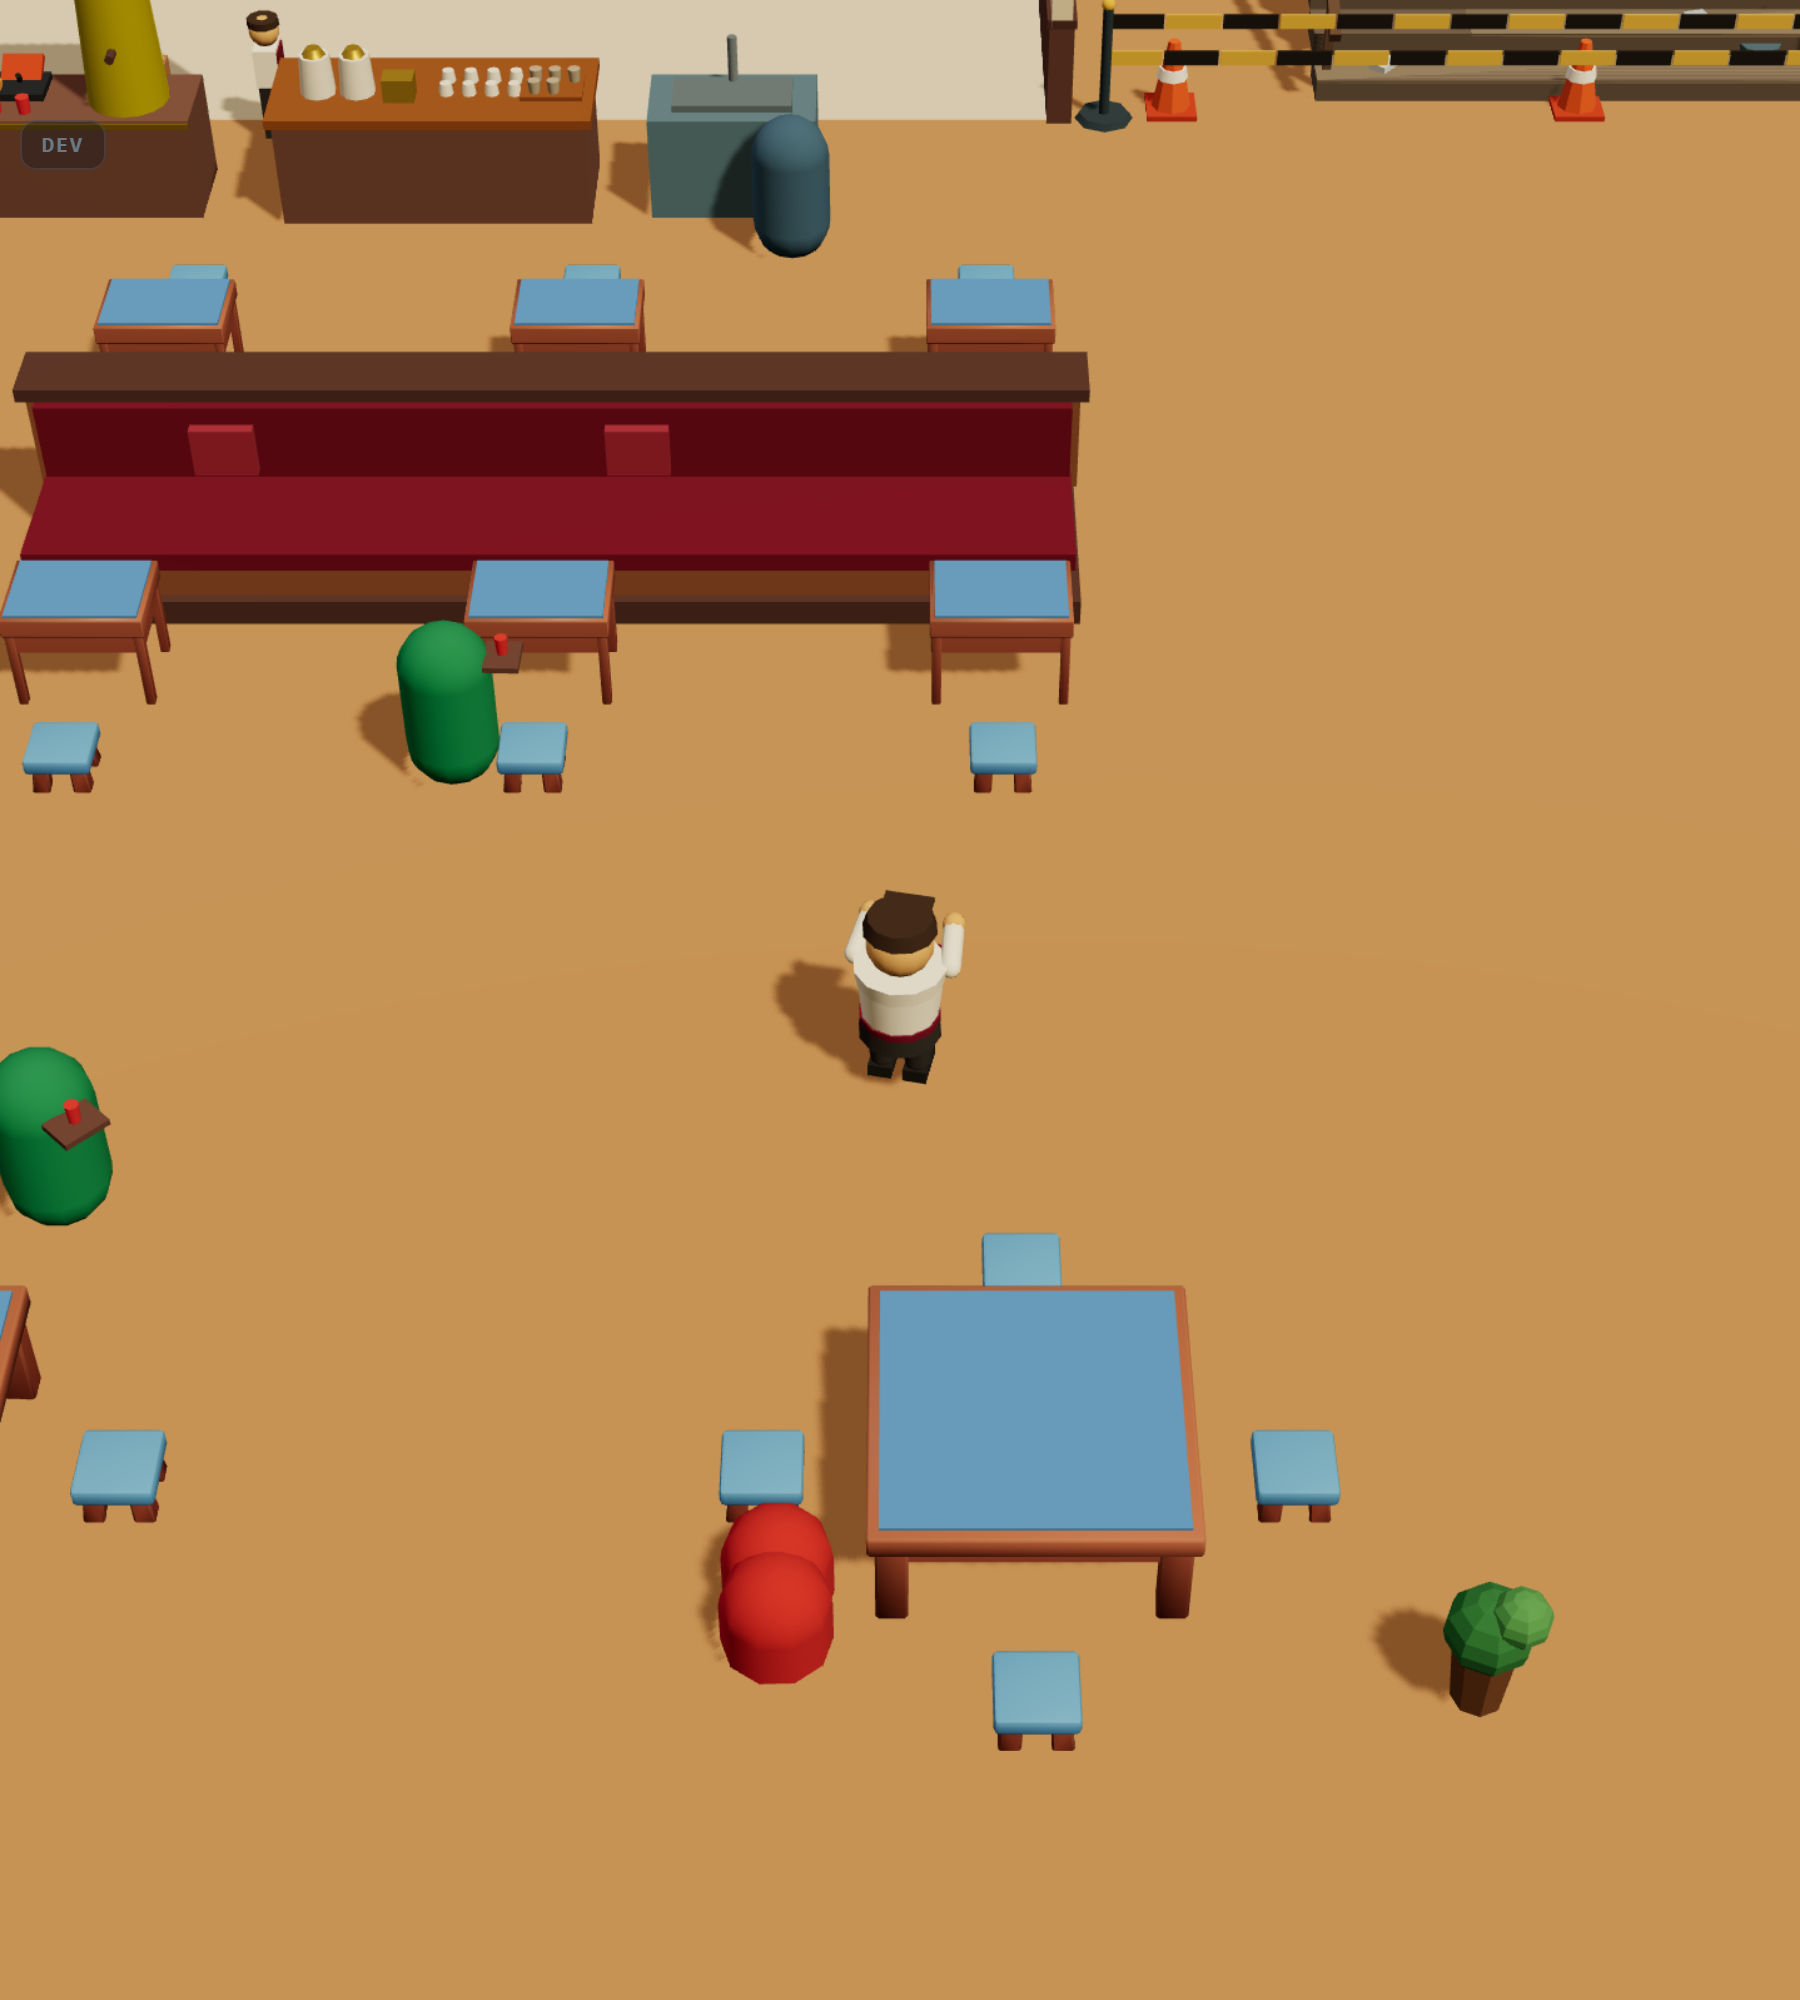
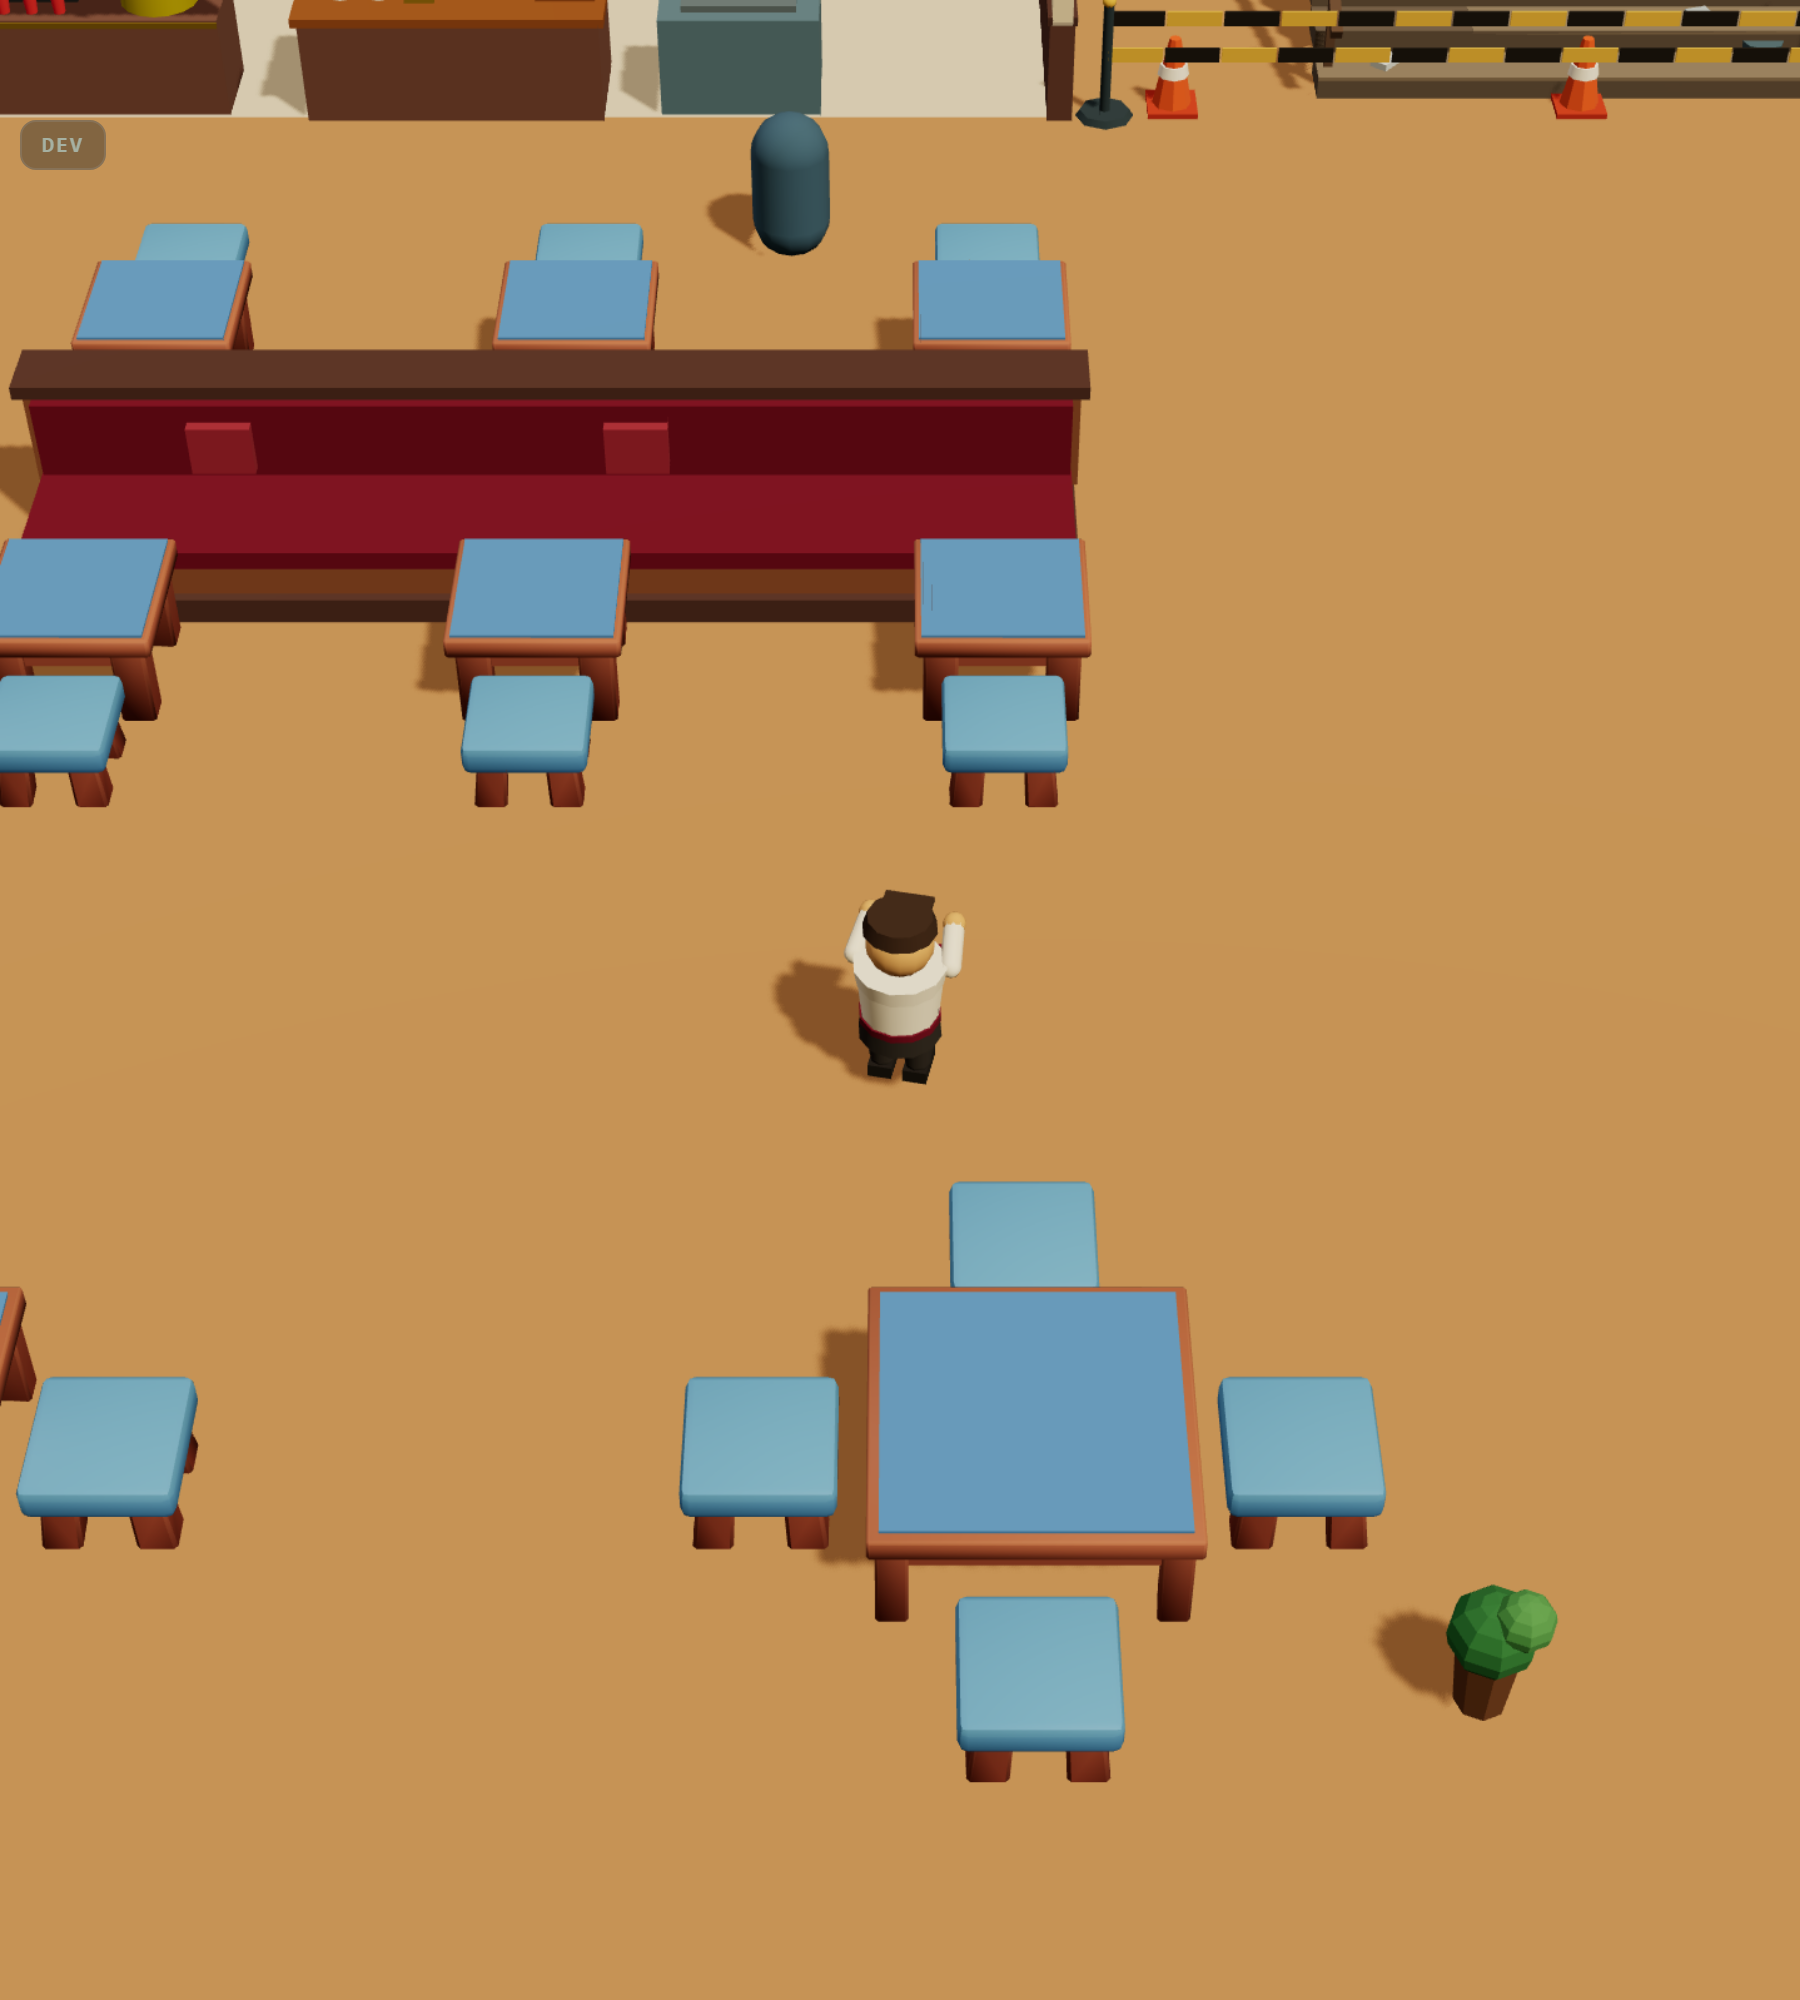
Oturum kaydi: pano 51->53 (Faz B 9->11), rapor D-074 bolumuyle guncellendi
- Pano JSON: bu oturum ozeti (duvar main'e, bant odalara, kamera olcumu, geri bildirim)
  + siradaki blok iki karara baglandi (bandin acilmasi, fov) -> sonra OLCU DONAR
- docs/bm-adim3-4-bant-kamera.html: 'Kareler geldikten sonra duzelen uc sey' bolumu +
  fov kareleri yeni mobilyayla yeniden cekildi
- Artifact: https://claude.ai/code/artifact/e49330bc-c918-41ec-a1b4-5c879cae146c

diff --git a/docs/pano/ilerleme-panosu.html b/docs/pano/ilerleme-panosu.html
@@ -187,8 +187,8 @@ h2{font-size:21px;font-weight:800}
      yayın programıyla başladı.
      ══════════════════════════════════════════════════════════════════════ -->
 <script type="application/json" id="durum">{
-  "guncelleme": "07.09.2026",
-  "yapilan": 51,
+  "guncelleme": "08.09.2026",
+  "yapilan": 53,
   "toplam": 72,
   "kilometre": [
     {
@@ -209,30 +209,30 @@ h2{font-size:21px;font-weight:800}
     }
   ],
   "ozet": {
-    "etiket": "Bu oturum · Faz B · 9/12 — ölçü kararı, gölge ve maketin masası",
-    "baslik": "Tasarımla sistem birbirini geçersiz kılıyordu; sebep sıra değil, bağımlılığın yönüymüş",
-    "aciklama": "Oturum bir düzen sorusuyla açıldı: <b>“önce tasarım mı kusursuzlaşsın, yoksa sistem mi”</b>. Sıra iki gecede iki kez dönmüştü, çünkü soru yanlış soruluyordu. Ölçüm sebebi verdi: <b>bağımlılık tek yönlü</b> — geometri değişince bütün denge ölçümleri (yürüme süresi = çay/dk) çöpe gidiyor, tersi olmuyor. Yani öncelik “hangisi daha önemli” değil, <b>hangisi diğerini geçersiz kılıyor</b>.<br><br>Bunun üstüne üç katman kuruldu: <b>1) ölçü/ankraj → 2) sistem → 3) sanat cilası</b>. Ankrajlar (masa merkezleri, servis yüzü, pad noktaları, yol bulma katıları) bir kez donar; sanat cilası onlara <b>dokunamaz</b>, böylece kaç tur dönerse dönsün denge bozulmaz. İkinci kök sebep de kayda geçti: maket ile oyun <b>iki ayrı program</b> (r128 + renk yönetimsiz ↔ three 0.184 + ACES), o yüzden “yan yana koy, aynı mı” kabul kriteri hiçbir zaman kapanamıyordu. Kriter artık <b>sayı listesi</b>.",
+    "etiket": "Bu oturum · Faz B · 11/12 — duvar main'e alındı, arka bant odalara döndü",
+    "baslik": "Bant üç düz krem kutuydu; maketin kendi kurgusunda orası zaten üç odaydı",
+    "aciklama": "Duvar dalı main'e alındı ve <b>korkulan çakışma çıkmadı</b> — dalın dokunduğu satırlarla gecenin ışık/masa değişiklikleri hiç kesişmemiş. Ama duvar 1,20'den <b>3,20</b>'ye çıkınca iki kusur açığa çıktı: kapı boşluğu duvarla birlikte uzayıp lentoyu tavana yapıştırdı, ve arka bandın üç krem kutusu kadrajın beşte birini kaplayan bomboş bir yüzeye dönüştü.<br><br>İkisinin de cevabı maketin kendi dosyasındaydı. Kapıya <b>alınlık</b> geldi (kapı 2,65'te biter, üstündeki 0,55'lik badana şeridi cepheyi tamamlar). Bant ise kütle olmaktan çıkıp <b>maketin odalarına</b> döndü: solda mutfak, ortada yıkık merdiven kovası, sağda lavabo. Bandı kapatan şey artık kutunun kendisi değil <b>binanın arka duvarı</b>.",
     "adimlar": [
-      "<b>Ölçü hedefi seçildi:</b> kat 34 × 34, duvar 3,20 — maket v13 aynen. 32 × 32 + KayKit duvarı (4,00) ölçüldü ve reddedildi: onaylı maketi yeniden açardı, kayan kapıyla çatışırdı",
-      "<b>Dev'e üstten plan geldi:</b> katın tamamını tepeden gösteren kamera + zemine 3,20 / 4,00 adımlı <b>ölçü ızgarası</b> — maket ve oyun artık aynı kadrajdan karşılaştırılıyor",
-      "<b>Gölgeler geri açıldı</b> (eski “gölge yok” kararı kullanıcı tarafından geri alındı); takım maketin kendi değerleri — yumuşak gölge, 2048 harita, güneş 14/26/16",
-      "<b>Zemin parkeden çıktı:</b> maketin düz ahşabı (#b98a5a); tahta çizgileri kalktı, ölçek referansını artık gölge veriyor",
-      "<b>Masa dili maketin ölçüsüne çıktı:</b> ön çeyreğin çay masası 0,90 → <b>1,75</b>, küme aralığı 3,20 → <b>6,40</b>, koltuklar ∓0,78 → <b>∓1,45</b>; şeridin ikili masası (1,00) olduğu gibi kaldı — maketteki <b>iki mobilya dili</b> arasındaki fark geri geldi"
+      "<b>Duvar main'de:</b> 3,20 · lambri 0,90 · üç katman · koyu çıta; dekorun asma bandı maketin yüksekliklerinde (tablo 1,95 · aplik 2,05 · saat 2,20)",
+      "<b>Ana giriş maketin bloğu oldu:</b> kapı 2,65 · söveler ∓2,20 · <b>alınlık</b> 2,65–3,20 · üst kordon 3,15",
+      "<b>Arka bant odalara döndü:</b> mutfak (fayans zemin, cezve ocağı, tezgâh, raflar, bulaşık, depo) · merdiven kovası (yıkık merdiven, uyarı şeridi, dubalar) · lavabo (açıkken oda, kilitliyken tahta perde + iskele + moloz)",
+      "<b>Kamera ölçüldü:</b> fov 50 ↔ 34 aynı kadrajdan çekildi; maketin dar açısı sahneyi %16 düzleştiriyor ama sisin yeniden ayarlanmasını gerektiriyor — <b>karar kullanıcıda</b>",
+      "<b>Geri bildirim aynı gece kapandı:</b> banket masası kare oldu (1,00 → 1,20), tabure oranı maketin ölçüsüne kilitlendi (oturak 0,30 → 0,555), mutfak eşyaları mutfağın içine girdi"
     ],
-    "not": "Ölçü değişimi beş testi düşürdü ve beşi de <b>ölçüye bağlanarak</b> düzeltildi (teslim mesafesi artık masanın ayak izinden türüyor, sabit sayı değil). <b>280/280 yeşil.</b> Karşılaştırma raporu: <code>docs/olcu-plan-karar.html</code>"
+    "not": "Bandın açılması <b>oynanışa dokunmadı</b>: alanlar hâlâ z = −9,8'de bitiyor ve duvarlar zaten katı engel değil — nav, denge, kayıt ve testlerin hiçbiri etkilenmedi. <b>281/281 yeşil.</b> Rapor: <code>docs/bm-adim3-4-bant-kamera.html</code>"
   },
   "siradaki": {
-    "etiket": "Faz B · BM adım 1 — duvar (3,20) main'e alınıyor",
-    "baslik": "Duvar hâlâ 1,20: salon bir oda değil, bir kesit",
-    "aciklama": "Bugünkü duvar <b>bir insanın omzunun altında</b> bitiyor (1,20; insan 1,60). Maketin duvarı <b>3,20</b> ve asılan her şeyin yeri ona göre: tablo 1,95 · aplik 2,05 · saat 2,20. Duvar yükselmeden dekorun yarısı ya havada duruyor ya duvarın üstüne taşıyor.<br><br>İş <b>zaten yazılmış</b> durumda: <code>worktree-maket-tasima</code> dalında duvar maketin profiliyle kurulu (3,20 · lambri 0,90 · üç katman · koyu çıta). Dal bu gecenin ışık/masa/zemin değişikliklerinin gerisinde kaldığı için birleştirmede çakışma bekleniyor.",
+    "etiket": "Faz B · iki karar bekliyor, sonra ÖLÇÜ DONAR",
+    "baslik": "Ölçü katmanı kapanmadan denge ölçülemez",
+    "aciklama": "Faz B'nin son adımı iki soruya bağlı ve ikisi de senin: <b>(1)</b> arka bant artık açık — mutfak ve merdiven kovası salondan görünüyor; bu maketin kurgusu ama oyunda ilk kez böyle. <b>(2)</b> kamera açısı 50'de mi kalsın, maketin 34'üne mi insin.<br><br>Karar verilir verilmez ölçü listesi <b>donar</b> ve bir daha açılmaz: sanat cilası ona dokunamaz, sistem işi onun üstüne kurulur. Denge tam o noktada, <b>tek seferde</b> yeniden ölçülür — çünkü masa aralığı 3,20'den 6,40'a çıktı ve eski tempo tablosunun tamamı geçersiz.",
     "adimlar": [
-      "<b>Duvar dalı main'e:</b> çakışmalar duvar paneli · dekor · palet dosyalarında çözülür, ölçü listesi testiyle doğrulanır",
-      "<b>Arka bant ve odalar:</b> servis köşesi, lavabo, merdiven — maketin koordinatlarıyla",
-      "<b>Kamera:</b> oyunun 50°'lik açısı ile maketin 34°'si karşılaştırılır, kadraj kararı verilir",
+      "<b>Bandın açılması onaylanır</b> (ya da tek satırla geri alınır)",
+      "<b>Kamera kararı:</b> fov 50 · 42 · 34",
       "<b>ÖLÇÜ DONAR</b> + maket arşiv damgasını alır: bundan sonra tek yetkili oyunun kendisi",
-      "<b>Denge tek seferde yeniden ölçülür</b> (masa aralığı 6,40 oldu; eski tempo tablosu geçersiz)"
+      "<b>Denge tek seferde yeniden ölçülür</b> (yürüme süreleri = çay/dk; eski tempo tablosu geçersiz)",
+      "<b>Faz C açılır:</b> zincir ve denge — oradan sonrası meta, arayüz, paketleme"
     ],
-    "not": "<b>v1 kapsam çizgisi (bu oturumda çekildi):</b> yayına <b>Kat 1</b> çıkar. Prestij “Renovasyon”, Kat 2, sipariş nesnesi ve aktif tuvalet döngüsü <b>v1.1'e</b> bırakıldı; meta katmanı elmas + Usta seviyesi + offline tavanla sınırlı. Faz B'nin bütçesi 9 → 12 oturuma çıkarıldı: maket taşıması tek oturuma sığmıyor ve <b>ölçü donmadan denge ölçülemez</b>."
+    "not": "<b>v1 kapsam çizgisi:</b> yayına <b>Kat 1</b> çıkar. Prestij “Renovasyon”, Kat 2, sipariş nesnesi ve aktif tuvalet döngüsü <b>v1.1'e</b> bırakıldı; meta katmanı elmas + Usta seviyesi + offline tavanla sınırlı."
   },
   "donemler": [
     {
@@ -322,8 +322,8 @@ h2{font-size:21px;font-weight:800}
         {
           "k": "B",
           "t": "Model geçişi",
-          "d": "Maketin altı adımının oyuna taşınması. <b>Bütçe düzeltmesi (D-072):</b> 9 → 12. Kalan üç oturum <b>maket taşımasının</b> kendisi: duvar (3,20) · arka bant ve odalar · kamera + <b>ölçü dondurma</b>. Ölçü donmadan denge ölçülemez — masa aralığı bu oturumda 3,20'den 6,40'a çıktı ve eski tempo ölçümlerini geçersiz kıldı.",
-          "yapilan": 9,
+          "d": "Maketin altı adımının oyuna taşınması. <b>Bütçe düzeltmesi (D-072):</b> 9 → 12. Duvar (3,20) ve arka bant/odalar <b>bitti</b>; kalan tek oturum kamera kararı + <b>ölçü dondurma</b>. Ölçü donmadan denge ölçülemez — masa aralığı 3,20'den 6,40'a çıktı ve eski tempo ölçümlerini geçersiz kıldı.",
+          "yapilan": 11,
           "toplam": 12,
           "kapi": "Ölçü listesi tutuyor (sayıyla) + salon makete bakınca tanınıyor",
           "durum": "now"

diff --git a/docs/bm-adim3-4-bant-kamera.html b/docs/bm-adim3-4-bant-kamera.html
@@ -200,6 +200,41 @@
     </div>
   </figure>
 
+  <h3>Kareler geldikten sonra düzelen üç şey</h3>
+  <p>
+    İlk kareleri gördüğünde üç kusur işaret ettin ve üçü de aynı gece kapandı (<b>D-074</b>):
+  </p>
+  <div class="tblwrap">
+    <table>
+      <thead><tr><th>Kusur</th><th>Dün</th><th>Bugün</th><th>Ölçü nereden</th></tr></thead>
+      <tbody>
+        <tr>
+          <td>Banket masası dikdörtgen ve küçük</td>
+          <td class="was">0,99 × 0,70 bistro</td>
+          <td class="now">1,00 → 1,20 KARE</td>
+          <td>üst sınır banket adasının oturak kenarı (1,25 + 0,60 = 1,85 = masa merkezi)</td>
+        </tr>
+        <tr>
+          <td>Tabure masaya göre çok küçük</td>
+          <td class="was">oturak 0,30 · çap 0,45</td>
+          <td class="now">oturak 0,555 · çap 0,83</td>
+          <td>maketin <code>stool()</code>'u</td>
+        </tr>
+        <tr>
+          <td>Mutfak eşyaları mutfağın dışında</td>
+          <td class="was">z = −8,6 (salonun zemininde)</td>
+          <td class="now">z = −10,3 (ön yüzü bandın hattında)</td>
+          <td>maket: semaver önde, hazırlık arkada</td>
+        </tr>
+      </tbody>
+    </table>
+  </div>
+  <p>
+    Tip farkı artık tablanın <em>oranında</em> değil <em>boyunda</em>: ikili 1,00 / 1,20 ↔ dörtlü
+    1,10 / 1,75. Servis kümesinin taşınması erişimi <strong>değiştirmedi</strong> — tezgâh da
+    oyuncunun durabildiği en yakın nokta da aynı miktarda kaydı, aradaki 0,85 br sabit.
+  </p>
+
   <div class="note">
     <div class="h">Oynanışa dokunmadı</div>
     <p>
